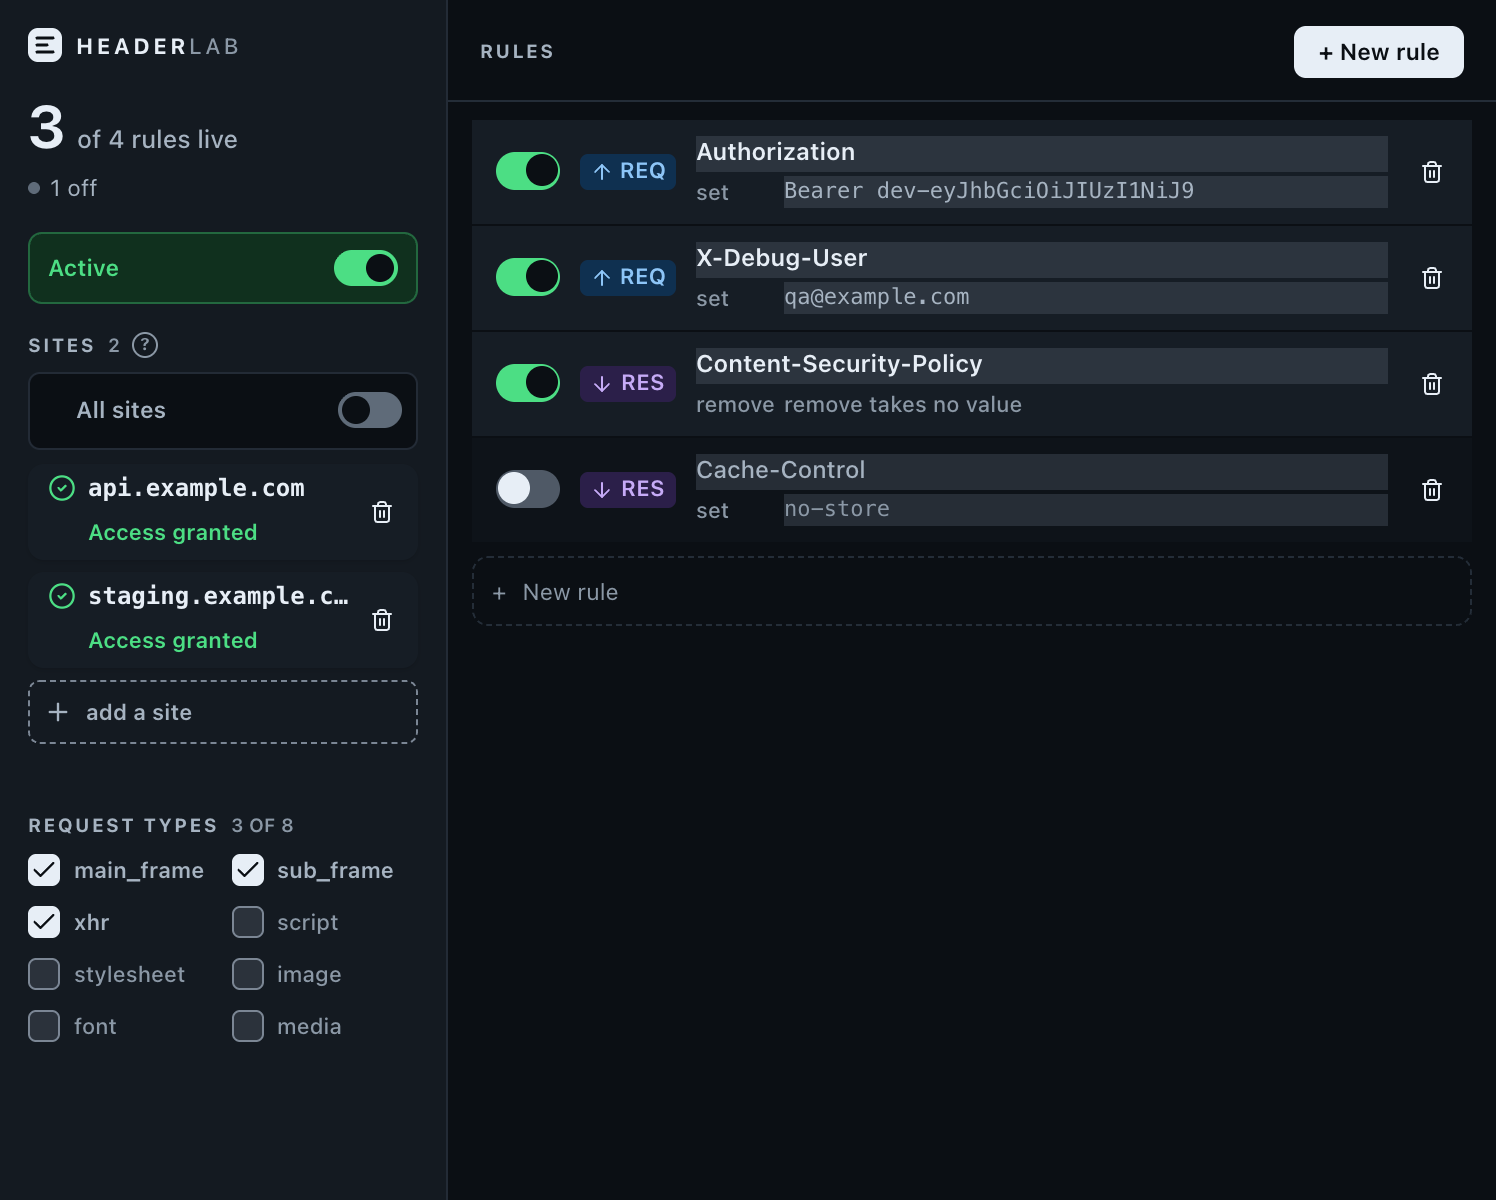
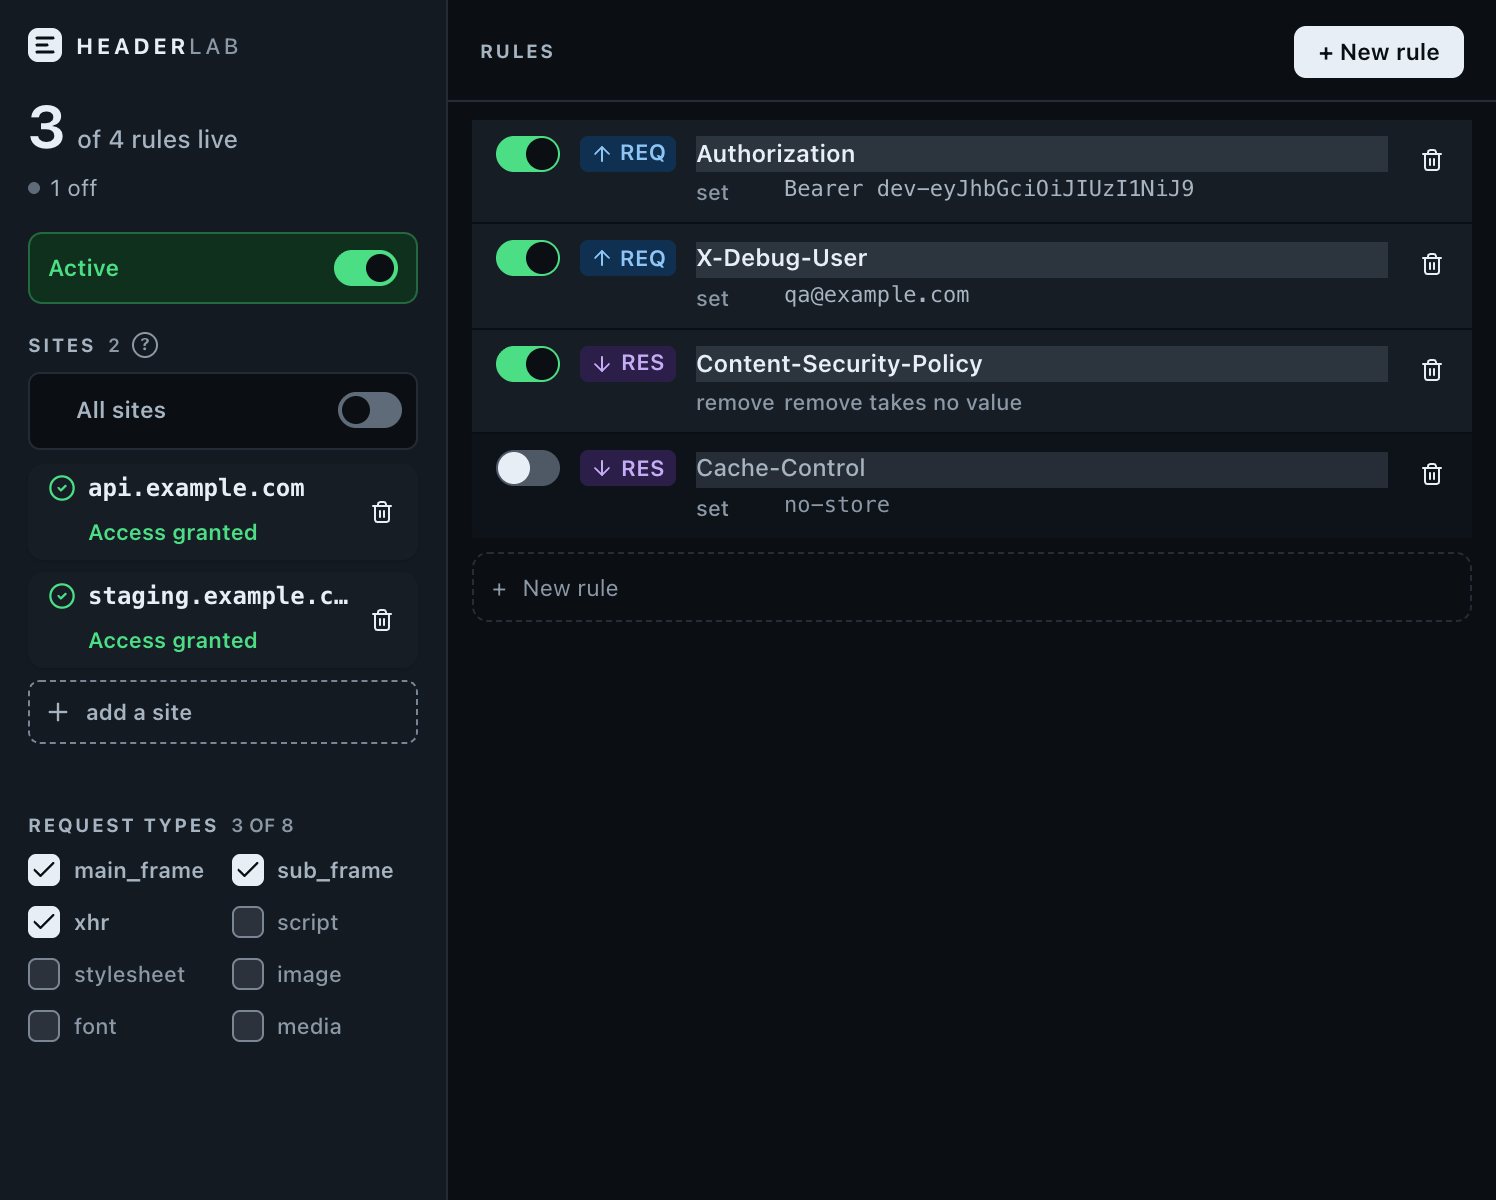
fix: 규칙 값이 잘리지 않고 다시 줄바꿈하게 되돌린다
오너 판단: 규칙 행은 값이 필요로 하는 높이를 그대로 가져간다 — 밀도보다
읽기 쉬움이 이긴다. 고정 52px 행(h-13)과 말줄임 Input + title 조합은 이
파일이 이미 한 번 지나온 자리였다 — "246px 셀과 말줄임"이 원래 그리드에
대한 첫 불만이었다. 정적 시안은 실제 JWT 나 긴 CSP 값을 들고 있어 본 적이
없어서 이 문제를 판정할 수 없다.

h-13 을 행에서 뺀다 — 과밀 가드의 Set([48]) 단언은 사이트 행 얘기지 규칙
행이 아니라 다른 걸 움직일 필요가 없었다. 값은 다시 textarea 로,
field-sizing:content 로 늘어나고 overflow-wrap:anywhere 로 끊어지지 않는
토큰도 줄바꿈한다 — 예전(69bf230) Enter/Shift+Enter/Escape 계약을 그대로
가져왔다. 타이포그래피(모노, 11px/14px, 테두리 없음)는 이번 작업이 세운
그대로 두어 시안의 외양은 유지한다 — 외양은 시안, 동작은 오너 판단.

행의 items-center 를 items-start 로 바꿔 스위치/배지/이름이 값이 몇 줄로
늘어나든 1행 자리에 고정되게 한다. 이제 불변식은 더 좁다: 규칙마다 높이가
달라질 수 있지만(내용), 한 규칙의 행은 켜짐/꺼짐이나 진단 유무로 높이가
바뀌지 않는다(상태) — 토글은 색/굵기만 바꾸고 진단은 행의 형제일 뿐 자식이
아니라서 구조적으로 성립한다.

옛 h-13 클래스 단언은 jsdom 이 실제로 검증할 수 없는 걸 검증하는 척했다 —
클래스는 있었지만 실제 레이아웃은 jsdom 이 못 본다. 구조/텍스트 동치를 보는
두 단언으로 교체하고, 실측은 임시 Playwright 스크립트(커밋 안 함, Task 6
선례)로 실제 크롬에서: 긴 JWT 값 켰을 때/껐을 때 120.5px, 짧은 값 51.5px —
토글 전후 둘 다 완전히 동일.

Claude-Session: https://claude.ai/code/session_01AoJqsjMCtVNteQQZDrLcrG

diff --git a/components/RuleCard.tsx b/components/RuleCard.tsx
@@ -29,7 +29,7 @@ export interface RuleCardProps {
 }
 
 /**
- * One rule, one row, 52px regardless of its state.
+ * One rule, one row.
  *
  * This is where "one line, four button languages" lived: direction was a
  * pill, `set`/`remove` was a bordered box, delete was a bare `×`, and the
@@ -44,10 +44,24 @@ export interface RuleCardProps {
  * no value, and says so in the place a value would be rather than rendering
  * an empty field.
  *
- * The row itself never changes height. A diagnostic renders as a sibling
- * below it, not inside it — the fixed 52px is what Task 8's scroll
- * container measures against, and a card that grew per-problem would make
- * that measurement a lie.
+ * The row's height follows its value: the value wraps and grows rather than
+ * truncating, the same bargain the pre-mockup design struck — a value with
+ * an ellipsis in a 246px cell was the first thing the owner named about the
+ * layout before that one, and a single-line, truncating field (this task's
+ * first attempt, reverted) walks straight back into the same complaint with
+ * `title` standing in for the ellipsis. A static mockup image never has to
+ * hold a real JWT or a long CSP value, so it cannot settle this; the owner
+ * did, choosing readability over the mockup's fixed-row density.
+ *
+ * What must still hold, and does by construction rather than by convention:
+ * a *given* rule's row must not change height when it is toggled on or off,
+ * or when a problem appears on it — that is state changing geometry, which
+ * this repo cares about most. Toggling only ever changes colour/weight on
+ * fixed-metric elements (never the text content, never what wraps where),
+ * and a diagnostic renders as a sibling below the row, never inside it — so
+ * neither can touch the row's own box. Different *rules* can be different
+ * heights; a single rule's height is never a function of its own on/off/
+ * problem state.
  */
 export function RuleCard({ rule, diagnostics, onPatch, onDelete, autoFocus }: RuleCardProps) {
   const name = useCommittedDraft(rule.name, (next) => onPatch({ name: next }));
@@ -78,7 +92,7 @@ export function RuleCard({ rule, diagnostics, onPatch, onDelete, autoFocus }: Ru
   return (
     <>
       <div
-        className="group/rule mb-px flex h-13 items-center gap-2.5 bg-card pr-2 pl-3 data-[off]:bg-tray"
+        className="group/rule mb-px flex items-start gap-2.5 bg-card py-2 pr-2 pl-3 data-[off]:bg-tray"
         data-testid="rule"
         data-off={!rule.enabled || undefined}
         data-unfinished={unfinished || undefined}
@@ -128,10 +142,10 @@ export function RuleCard({ rule, diagnostics, onPatch, onDelete, autoFocus }: Ru
             }}
           />
 
-          <div className="mt-0.5 flex h-4 min-w-0 items-center">
+          <div className="mt-0.5 flex min-w-0 items-start">
             <button
               type="button"
-              className="w-11 shrink-0 text-left text-[11px] leading-[14px] font-medium text-muted-foreground"
+              className="mt-px w-11 shrink-0 text-left text-[11px] leading-[14px] font-medium text-muted-foreground"
               aria-label={`Operation: ${rule.operation}`}
               onClick={() => onPatch({ operation: OP_NEXT[rule.operation] })}
             >
@@ -140,22 +154,26 @@ export function RuleCard({ rule, diagnostics, onPatch, onDelete, autoFocus }: Ru
 
             {removes ? (
               <span
-                className="min-w-0 flex-1 truncate text-[11px] leading-[14px] font-medium text-muted-foreground"
+                className="mt-px min-w-0 flex-1 text-[11px] leading-[14px] font-medium text-muted-foreground"
                 data-testid="rule-value"
               >
                 remove takes no value
               </span>
             ) : (
-              <Input
+              <textarea
                 aria-label="Header value"
                 data-testid="rule-value"
-                className="h-4 min-w-0 flex-1 truncate rounded-none border-0 border-b border-transparent bg-transparent p-0 font-mono text-[11px] leading-[14px] font-medium text-foreground-2 shadow-none outline-none placeholder:font-sans placeholder:text-[11px] placeholder:font-medium placeholder:text-muted-foreground hover:border-b-border focus-visible:border-b-ring focus-visible:ring-0 group-data-off/rule:text-muted-foreground"
+                rows={1}
+                className="min-w-0 flex-1 resize-none rounded-none border-0 bg-transparent p-0 font-mono text-[11px] leading-[14px] font-medium text-foreground-2 shadow-none outline-none [field-sizing:content] [overflow-wrap:anywhere] placeholder:font-sans placeholder:text-[11px] placeholder:font-medium placeholder:text-muted-foreground focus-visible:ring-0 group-data-off/rule:text-muted-foreground"
                 placeholder="value"
                 value={value.draft}
                 onChange={(e) => value.setDraft(e.target.value)}
                 onBlur={value.commit}
                 onKeyDown={(e) => {
-                  if (e.key === 'Enter') {
+                  // Shift+Enter keeps the newline; a bare Enter is a commit —
+                  // the same bargain the pre-mockup value editor struck, and
+                  // the reason it is a textarea rather than an input again.
+                  if (e.key === 'Enter' && !e.shiftKey) {
                     e.preventDefault();
                     value.commit();
                   } else if (e.key === 'Escape') {

diff --git a/tests/unit/RuleCard.test.tsx b/tests/unit/RuleCard.test.tsx
@@ -369,41 +369,75 @@ describe('RuleCard value slot', () => {
 });
 
 describe('RuleCard geometry', () => {
-  it('renders the same row height whether the rule is on, off, or has a problem', () => {
-    // Four button languages in one row was the original complaint about this
-    // card; the fix this task makes is one row shape regardless of state, so
-    // a switched-off rule and one carrying a diagnostic must not grow or
-    // shrink the row Task 8's scroll container measures against.
+  // The row is no longer a fixed height — the owner ruled that a rule's
+  // value must wrap and grow rather than truncate, so different *rules* can
+  // be different heights (see the docblock on RuleCard). What must still
+  // hold is narrower: a *given* rule's own row must not change height when
+  // it is toggled on/off or gains a diagnostic. jsdom performs no layout
+  // (this codebase's own e2e suite says so outright), so a unit test cannot
+  // honestly measure pixels — that claim is verified in a real browser
+  // instead (see the task report). What a unit test *can* honestly check is
+  // the structural half of the same claim: toggling never changes which
+  // elements render, their order, or the value text they carry — only
+  // colour/weight classes may differ. A future edit that swapped the value
+  // field for something else in one state, or truncated/altered its text
+  // only when off, would change what this asserts even though jsdom cannot
+  // see the pixel consequence.
+  it("changes only colour and weight when toggled off, never the row's own structure or its value text", () => {
     const base = {
       id: 'h',
       target: 'request',
       operation: 'set',
       name: 'X-Test',
-      value: 'v',
+      value:
+        'a value long enough that it would wrap across several lines in the real popup, well past one row',
     } as const;
-    const cases: Array<{ rule: Partial<HeaderRule>; diagnostics: Diagnostic[] }> = [
-      { rule: { ...base, enabled: true }, diagnostics: [] },
-      { rule: { ...base, enabled: false }, diagnostics: [] },
-      {
-        rule: { ...base, enabled: true },
-        diagnostics: [diag({ severity: 'error', message: 'a real problem' })],
-      },
-    ];
-    const heights = cases.map(({ rule: over, diagnostics }) => {
+    const shapes = [true, false].map((enabled) => {
       const { container, unmount } = render(
         <RuleCard
-          rule={rule(over)}
-          diagnostics={diagnostics}
+          rule={rule({ ...base, enabled })}
+          diagnostics={[]}
           onPatch={() => {}}
           onDelete={() => {}}
         />,
       );
-      const h = container.querySelector('[data-testid="rule"]')!.className.match(/h-\[?\d+/)?.[0];
+      const row = container.querySelector('[data-testid="rule"]')!;
+      const structure = Array.from(row.querySelectorAll('*'))
+        .map((el) => el.tagName)
+        .join(',');
+      const valueField = screen.getByTestId('rule-value') as HTMLTextAreaElement;
+      const shape = { structure, valueText: valueField.value };
       unmount();
-      return h;
+      return shape;
     });
-    expect(heights.every((h) => h !== undefined)).toBe(true);
-    expect(new Set(heights).size).toBe(1);
+    expect(shapes[0]!.structure).toBe(shapes[1]!.structure);
+    expect(shapes[0]!.valueText).toBe(shapes[1]!.valueText);
+    expect(shapes[0]!.valueText).toBe(base.value);
+  });
+
+  it("changes only colour and weight when a diagnostic appears, never the row's own structure", () => {
+    // The diagnostic renders as a sibling of the row, not inside it — this
+    // pins that half of the claim: adding one must not alter the row
+    // element's own children at all, not merely "not by much."
+    const props = {
+      rule: rule({ value: 'a value long enough to wrap onto more than one line' }),
+      onPatch: () => {},
+      onDelete: () => {},
+    };
+    const clean = render(<RuleCard {...props} diagnostics={[]} />);
+    const cleanStructure = clean.container.querySelector('[data-testid="rule"]')!.outerHTML;
+    clean.unmount();
+
+    const broken = render(
+      <RuleCard
+        {...props}
+        diagnostics={[diag({ severity: 'error', message: 'a real problem' })]}
+      />,
+    );
+    const brokenStructure = broken.container.querySelector('[data-testid="rule"]')!.outerHTML;
+    broken.unmount();
+
+    expect(brokenStructure).toBe(cleanStructure);
   });
 });
 
